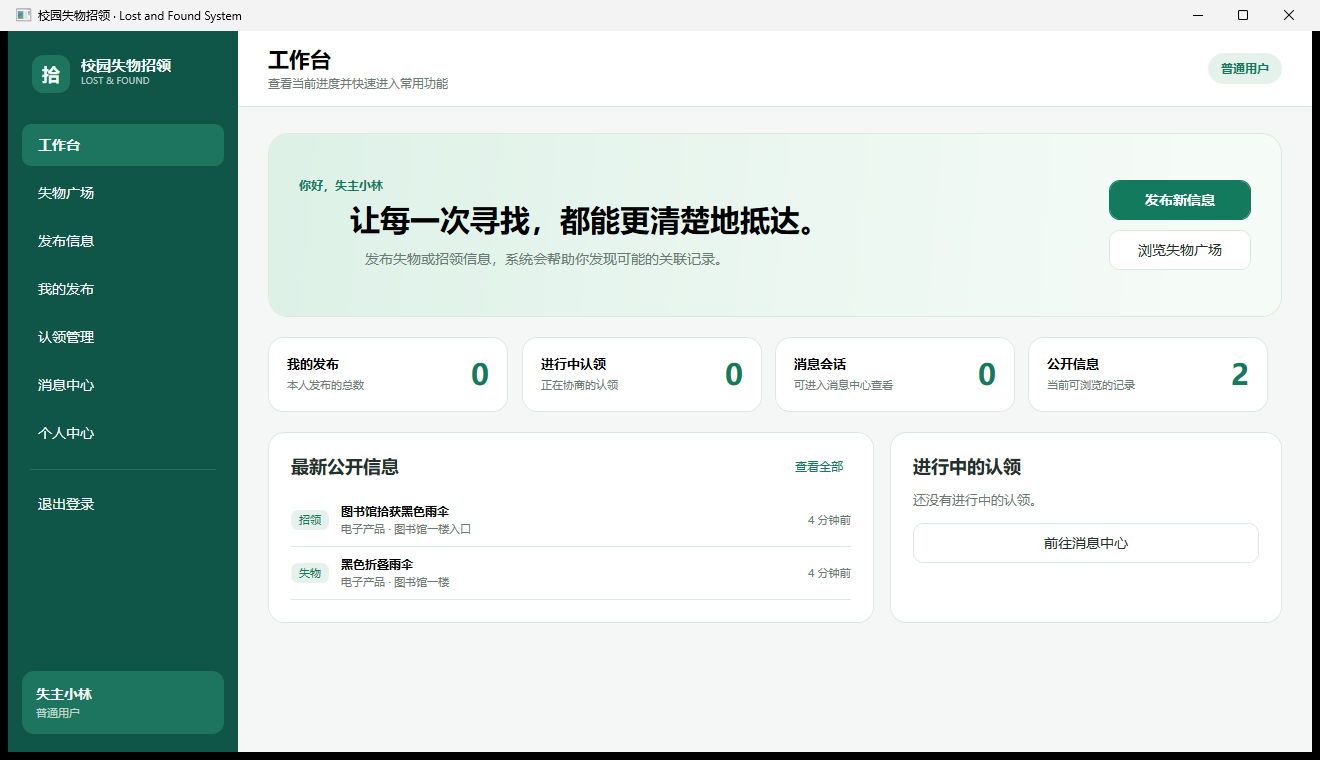
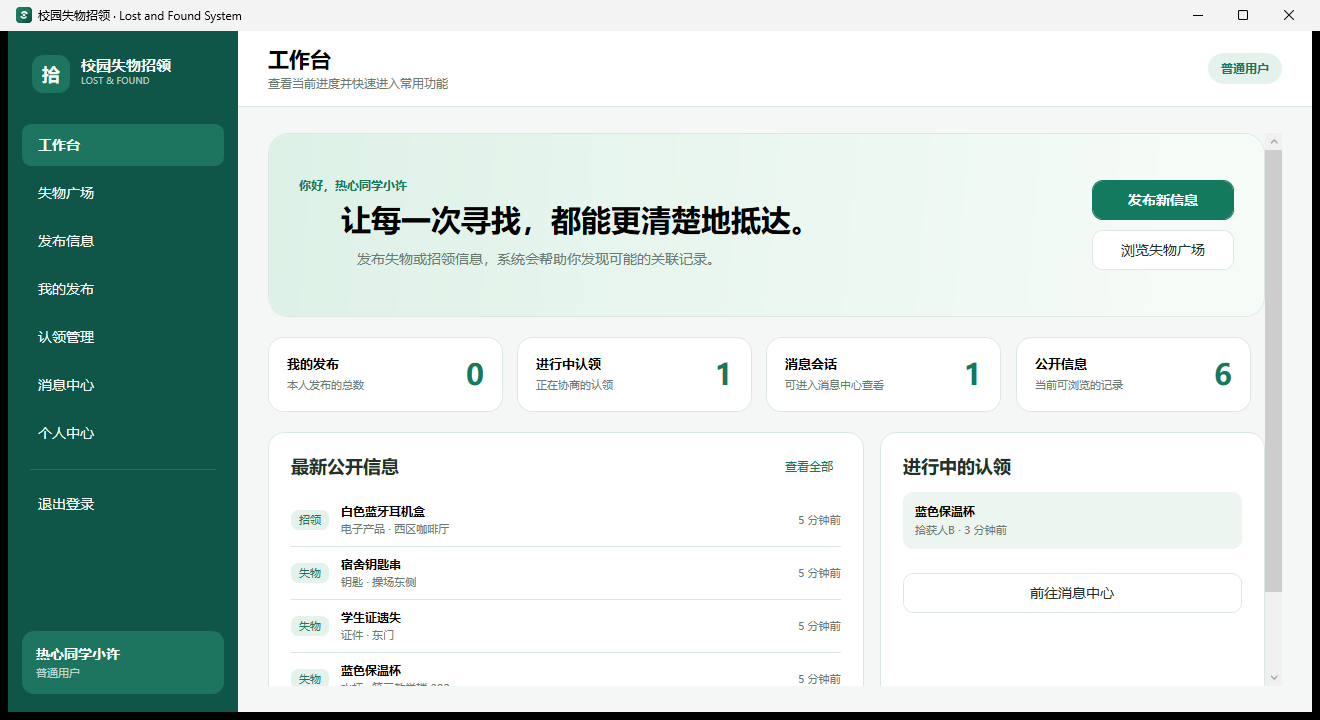
Refresh acceptance evidence and traceability notes

diff --git a/docs/01-requirements/requirements-risk-acceptance-matrix.md b/docs/01-requirements/requirements-risk-acceptance-matrix.md
@@ -24,6 +24,7 @@
 | R-14 | 工期压力导致核心需求被删减 | 高 | 高 | 所有 M 级需求 | 按“核心与无障碍优先、扩展功能延后”控制范围；每周检查完成度 | 对照 M 级需求清单逐项验收 |
 | R-15 | VSCode 缺少 C# 支持导致调试困难 | 中 | 低 | 开发约束 9.1 | 安装必要 C# 扩展；保留 CLI 构建和测试命令 | `dotnet build` 与 VSCode 调试均执行成功 |
 | R-16 | 自包含程序在目标电脑无法启动或数据目录不可写 | 中 | 中 | NFR-COMP-001, NFR-COMP-004 | 自包含发布；启动时检查数据目录权限；显示清晰错误 | 在至少两台 Windows 主机复制并运行 |
+| R-17 | CR-01 认领说明包含敏感信息或被非参与者读取 | 中 | 高 | FR-CLAIM-001, FR-CLAIM-008 | 仅认领双方和管理员可读取；限制 10-200 字符；不公开展示 | 使用参与者、非参与者和管理员身份检查可见性 |
 
 ## 验收优先级
 

diff --git a/docs/04-traceability/cr-01-change-report.md b/docs/04-traceability/cr-01-change-report.md
@@ -8,6 +8,10 @@
 
 **最终裁决：** 项目负责人接受 CR-01。
 
+**基线提交：** `c6587cc`
+
+**CR-01 实现提交：** `6779e25`
+
 **变更描述：**
 
 用户发起认领时，必须填写 10 至 200 个字符的认领说明，例如物品隐蔽特征、遗失经过或其他能够证明归属的信息。该说明只对认领双方和管理员可见，信息发布者在认领管理和聊天页中均可查看。
